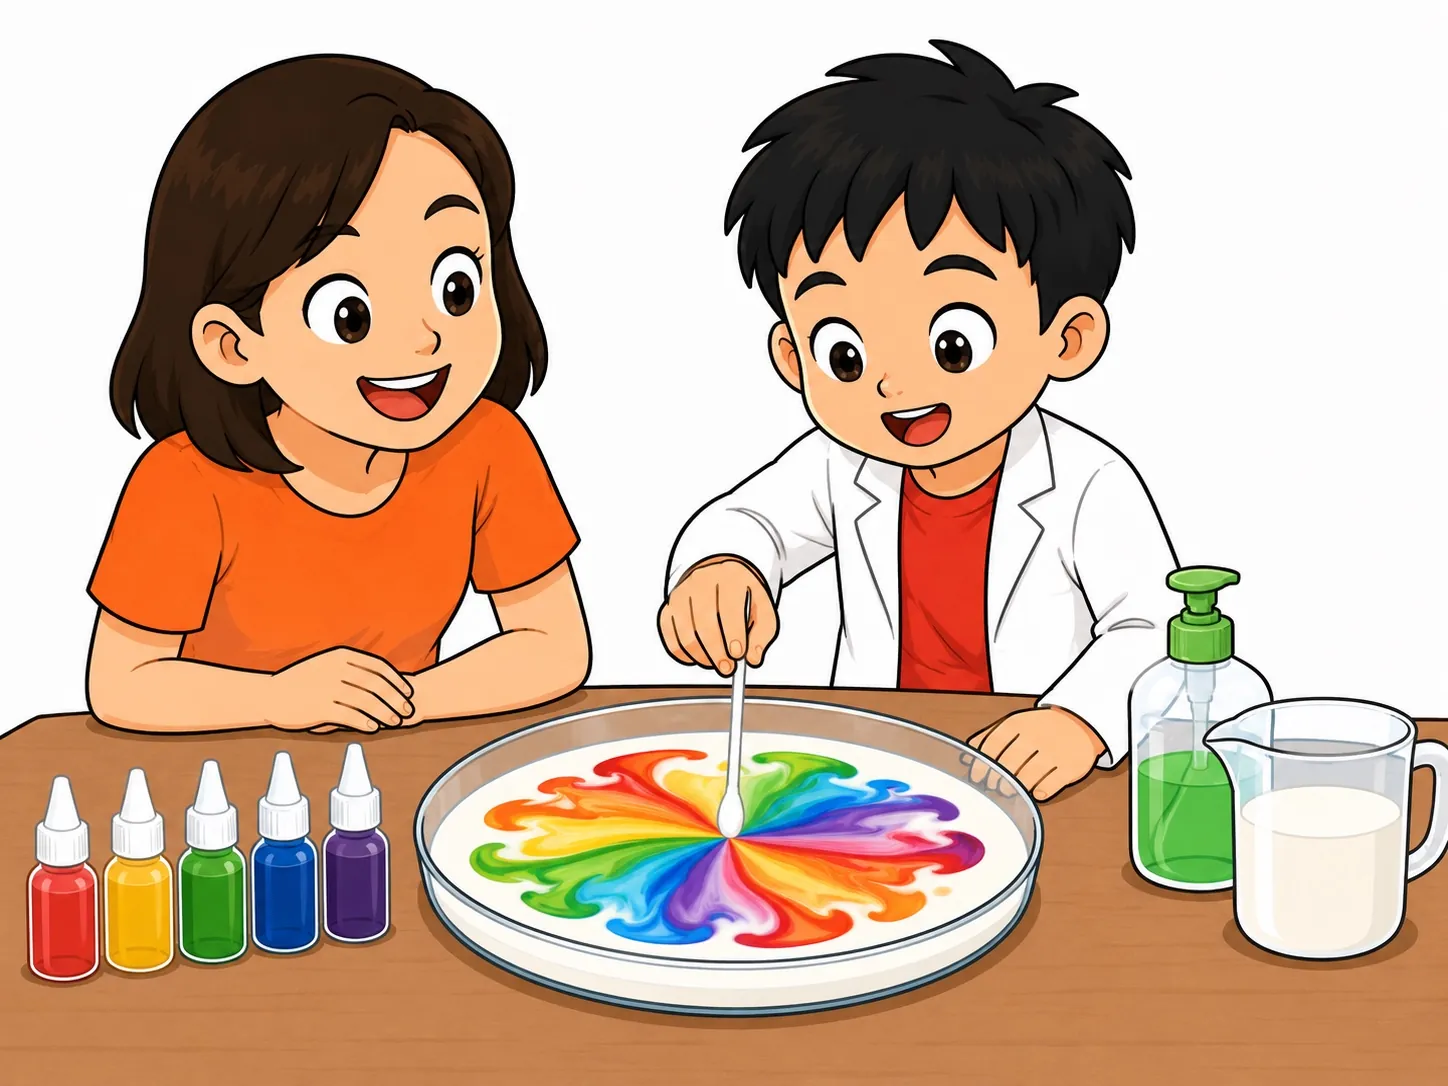
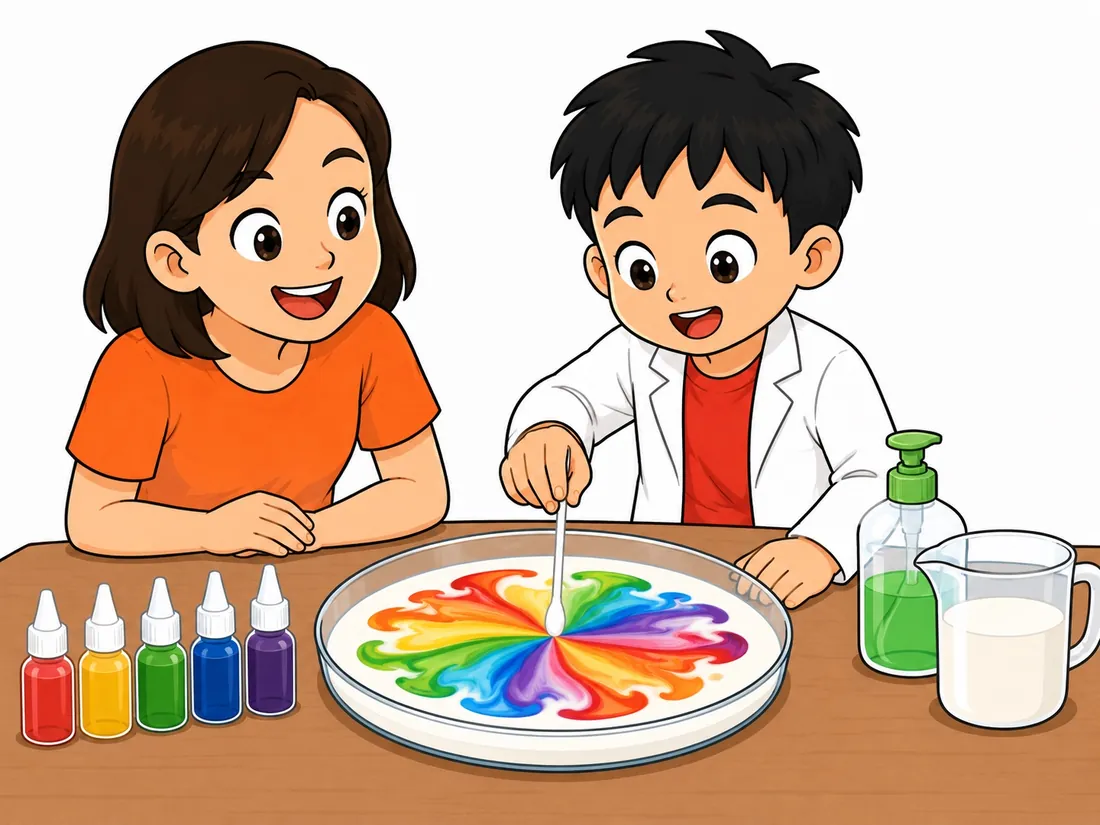
perf: resize images to 2x their real rendered size
วัดขนาดที่เรนเดอร์จริงของทุกรูปครบ 9 breakpoint (375-1920px)
แล้วสร้างไฟล์ใหม่จาก base64 ต้นฉบับที่ความกว้าง 2 เท่าของขนาดจริง
(สร้างใหม่จากต้นฉบับ ไม่ใช่ encode ทับ WebP เดิม เลี่ยงคุณภาพตกสองต่อ)

assets/img: 1.15 MB -> 0.92 MB (-20%)

- โลโก้ 320 -> 160px (แสดงจริง 50px = 3x) 59 KB -> 23 KB
- visual-rocket 1448 -> 1200px (แสดงจริง 587px)
- visual-mini 3 ไฟล์ + mission 4 ไฟล์ -> 1100px (แสดงจริง 551px)
- hero + inside 2 ไฟล์ คงขนาดเดิม 1448px (แสดงจริง 711-720px พอดี 2x อยู่แล้ว)
- QR PNG คงเดิม

อัปเดต width/height attribute ให้ตรงขนาดใหม่
PSNR 38.8-41.5 dB ทุกรูป, layout hash ยังตรงกับต้นฉบับเป๊ะทั้ง 1280x900 และ 375x812

diff --git a/index.html b/index.html
@@ -2455,7 +2455,7 @@ body {
 <body class="premium">
 <nav class="nav">
 <div class="wrap nav-inner">
-<a aria-label="VINKO · WOW LAB ทาง LINE" class="brand" href="https://lin.ee/8F08BYJ" rel="noopener" target="_blank"><img alt="VINKO logo" src="assets/img/vinko-logo.webp" width="320" height="347" decoding="async"/><span>VINKO · WOW LAB</span></a>
+<a aria-label="VINKO · WOW LAB ทาง LINE" class="brand" href="https://lin.ee/8F08BYJ" rel="noopener" target="_blank"><img alt="VINKO logo" src="assets/img/vinko-logo.webp" width="160" height="174" decoding="async"/><span>VINKO · WOW LAB</span></a>
 <div class="nav-links">
 <a href="#missions">ภารกิจ</a>
 <a href="#inside">ข้างในเล่ม</a>
@@ -2505,12 +2505,12 @@ body {
 <div class="wrap">
 <div class="visual-grid">
 <div class="visual-feature">
-<img alt="เด็กทดลองจรวดขวดน้ำ" src="assets/img/visual-rocket-bottle.webp" width="1448" height="1086" loading="lazy" decoding="async"/>
+<img alt="เด็กทดลองจรวดขวดน้ำ" src="assets/img/visual-rocket-bottle.webp" width="1200" height="900" loading="lazy" decoding="async"/>
 </div>
 <div class="visual-stack">
-<div class="visual-mini"><img alt="ทดลองเขย่าขวดน้ำกับน้ำมัน" src="assets/img/visual-shake-oil-water.webp" width="1536" height="1152" loading="lazy" decoding="async"/><div><h3>เขย่า ดู แล้วตั้งคำถาม</h3><p>ภาพทดลองช่วยให้เด็กเห็นการเปลี่ยนแปลงชัดขึ้น และชวนถามต่อว่าเกิดอะไรขึ้นข้างในขวด</p></div></div>
-<div class="visual-mini"><img alt="ทดลองไข่เข้าไปในขวด" src="assets/img/visual-egg-in-bottle.webp" width="1448" height="1086" loading="lazy" decoding="async"/><div><h3>ว้าวก่อน แล้วค่อยเข้าใจ</h3><p>ผลลัพธ์ที่น่าทึ่งอย่างไข่ในขวดหรือจรวดขวดน้ำ ช่วยดึงความสนใจ ก่อนพาไปสู่หลักวิทยาศาสตร์</p></div></div>
-<div class="visual-mini"><img alt="เด็กตั้งคำถามเหมือนนักวิทยาศาสตร์" src="assets/img/visual-kid-questions.webp" width="1536" height="1152" loading="lazy" decoding="async"/><div><h3>ฝึกคิดเหมือนนักวิทย์</h3><p>ไม่ใช่แค่ทำตามขั้นตอน แต่ชวนเด็กเปรียบเทียบ สังเกต และสงสัยว่าทำไมผลลัพธ์ถึงต่างกัน</p></div></div>
+<div class="visual-mini"><img alt="ทดลองเขย่าขวดน้ำกับน้ำมัน" src="assets/img/visual-shake-oil-water.webp" width="1100" height="825" loading="lazy" decoding="async"/><div><h3>เขย่า ดู แล้วตั้งคำถาม</h3><p>ภาพทดลองช่วยให้เด็กเห็นการเปลี่ยนแปลงชัดขึ้น และชวนถามต่อว่าเกิดอะไรขึ้นข้างในขวด</p></div></div>
+<div class="visual-mini"><img alt="ทดลองไข่เข้าไปในขวด" src="assets/img/visual-egg-in-bottle.webp" width="1100" height="825" loading="lazy" decoding="async"/><div><h3>ว้าวก่อน แล้วค่อยเข้าใจ</h3><p>ผลลัพธ์ที่น่าทึ่งอย่างไข่ในขวดหรือจรวดขวดน้ำ ช่วยดึงความสนใจ ก่อนพาไปสู่หลักวิทยาศาสตร์</p></div></div>
+<div class="visual-mini"><img alt="เด็กตั้งคำถามเหมือนนักวิทยาศาสตร์" src="assets/img/visual-kid-questions.webp" width="1100" height="825" loading="lazy" decoding="async"/><div><h3>ฝึกคิดเหมือนนักวิทย์</h3><p>ไม่ใช่แค่ทำตามขั้นตอน แต่ชวนเด็กเปรียบเทียบ สังเกต และสงสัยว่าทำไมผลลัพธ์ถึงต่างกัน</p></div></div>
 </div>
 </div>
 <div aria-label="ตัวอย่างอุปกรณ์ในครัว" class="floating-kit">
@@ -2588,19 +2588,19 @@ body {
 </div>
 <div class="mission-grid">
 <article class="mission">
-<img alt="ภูเขาไฟฟู่ฟ่อง" src="assets/img/mission-01-volcano.webp" width="1448" height="1086" loading="lazy" decoding="async"/>
+<img alt="ภูเขาไฟฟู่ฟ่อง" src="assets/img/mission-01-volcano.webp" width="1100" height="825" loading="lazy" decoding="async"/>
 <div class="mission-body"><small>MISSION 01</small><h3>ภูเขาไฟฟู่ฟ่อง</h3><p>เห็นฟองพุ่งจากปฏิกิริยาง่ายๆ แล้วชวนเด็กสังเกตว่าแก๊สดันของเหลวได้อย่างไร</p></div>
 </article>
 <article class="mission">
-<img alt="น้ำกับน้ำมันแยกชั้น" src="assets/img/mission-02-oil-water.webp" width="1448" height="1086" loading="lazy" decoding="async"/>
+<img alt="น้ำกับน้ำมันแยกชั้น" src="assets/img/mission-02-oil-water.webp" width="1100" height="825" loading="lazy" decoding="async"/>
 <div class="mission-body"><small>MISSION 02</small><h3>น้ำกับน้ำมัน ทำไมไม่ยอมเป็นเพื่อนกัน?</h3><p>เทน้ำกับน้ำมันลงในขวดเดียวกัน แล้วสังเกตว่าทำไมของเหลวบางชนิดดูเหมือนจะผสมกัน แต่สุดท้ายกลับแยกชั้นออกจากกัน</p></div>
 </article>
 <article class="mission">
-<img alt="การเกิดฟองแก๊สในน้ำ" src="assets/img/mission-03-dancing-raisins.webp" width="1536" height="1152" loading="lazy" decoding="async"/>
+<img alt="การเกิดฟองแก๊สในน้ำ" src="assets/img/mission-03-dancing-raisins.webp" width="1100" height="825" loading="lazy" decoding="async"/>
 <div class="mission-body"><small>MISSION 03</small><h3>ลูกเกดเต้นได้</h3><p>ฟองแก๊สพาวัตถุเล็กๆ ลอยขึ้นและจมลงซ้ำๆ ดูเหมือนเวทมนตร์ แต่จริงๆ คือการลอยตัวและความหนาแน่น</p></div>
 </article>
 <article class="mission">
-<img alt="เด็กใช้สำลีก้านแตะน้ำยาล้างจานบนจานนมที่มีหยดสี ทำให้สีวิ่งและกระจายเป็นลายรุ้ง" src="assets/img/mission-04-magic-milk.webp" width="1448" height="1086" loading="lazy" decoding="async"/>
+<img alt="เด็กใช้สำลีก้านแตะน้ำยาล้างจานบนจานนมที่มีหยดสี ทำให้สีวิ่งและกระจายเป็นลายรุ้ง" src="assets/img/mission-04-magic-milk.webp" width="1100" height="825" loading="lazy" decoding="async"/>
 <div class="mission-body"><small>MISSION 04</small><h3>สีเต้นระบำในนม</h3><p>หยดสีลงบนนม แล้วแตะน้ำยาล้างจาน เด็กจะเห็นสีวิ่ง กระจาย และหมุน พร้อมเรียนรู้เรื่องแรงตึงผิวแบบจับต้องได้</p></div>
 </article>
 </div>
